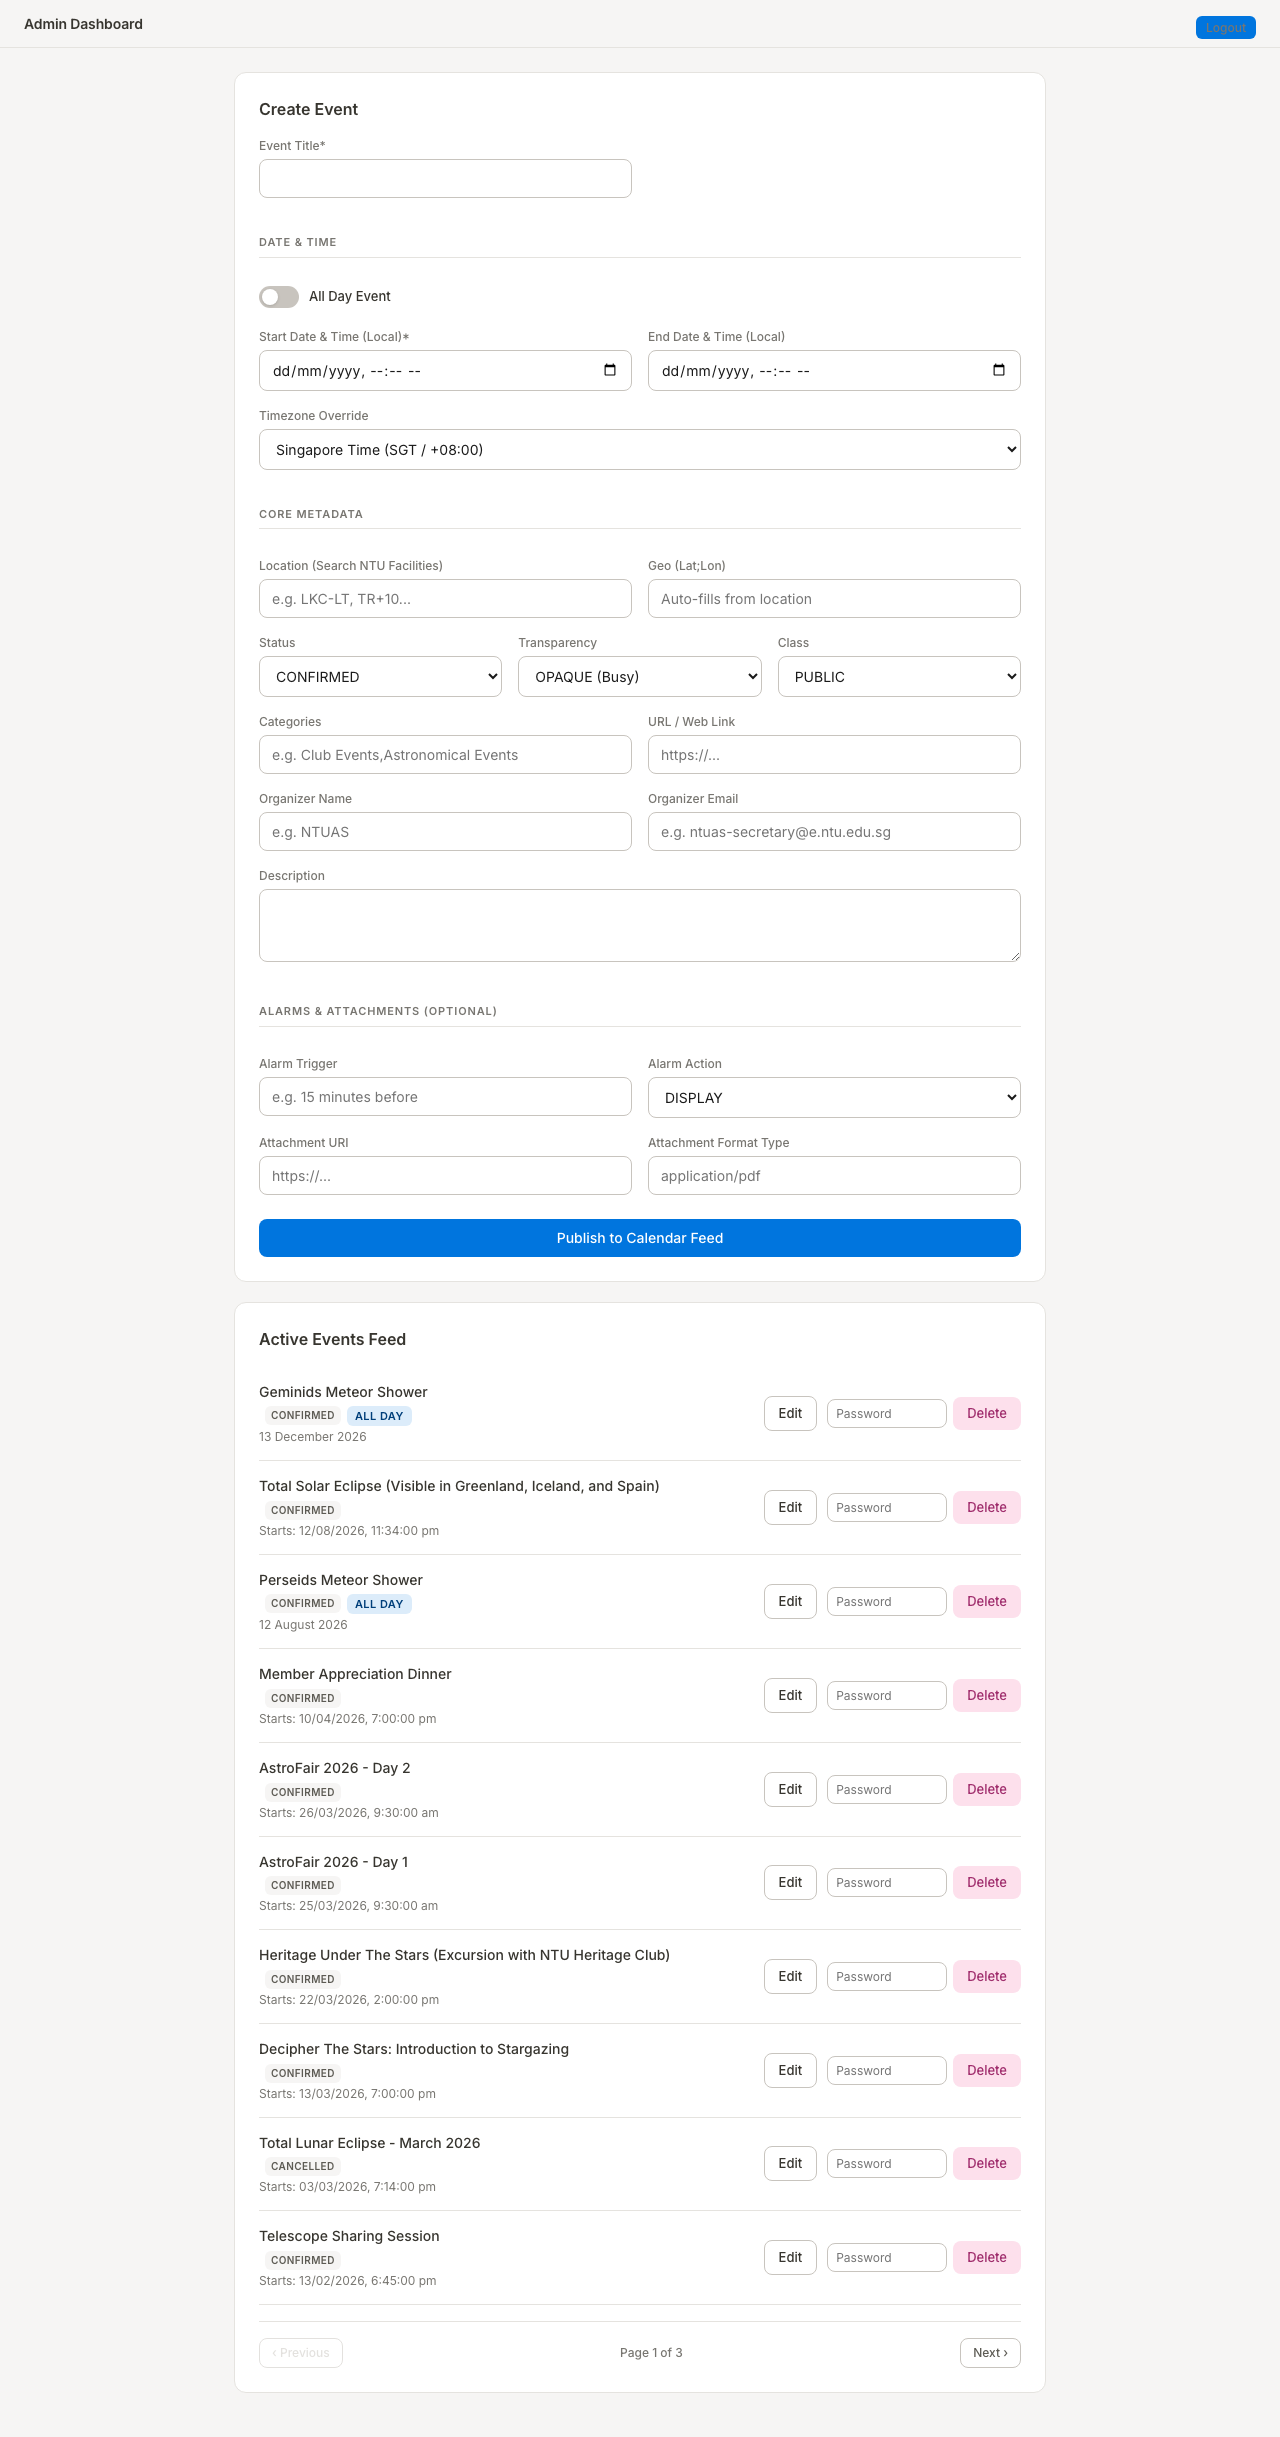
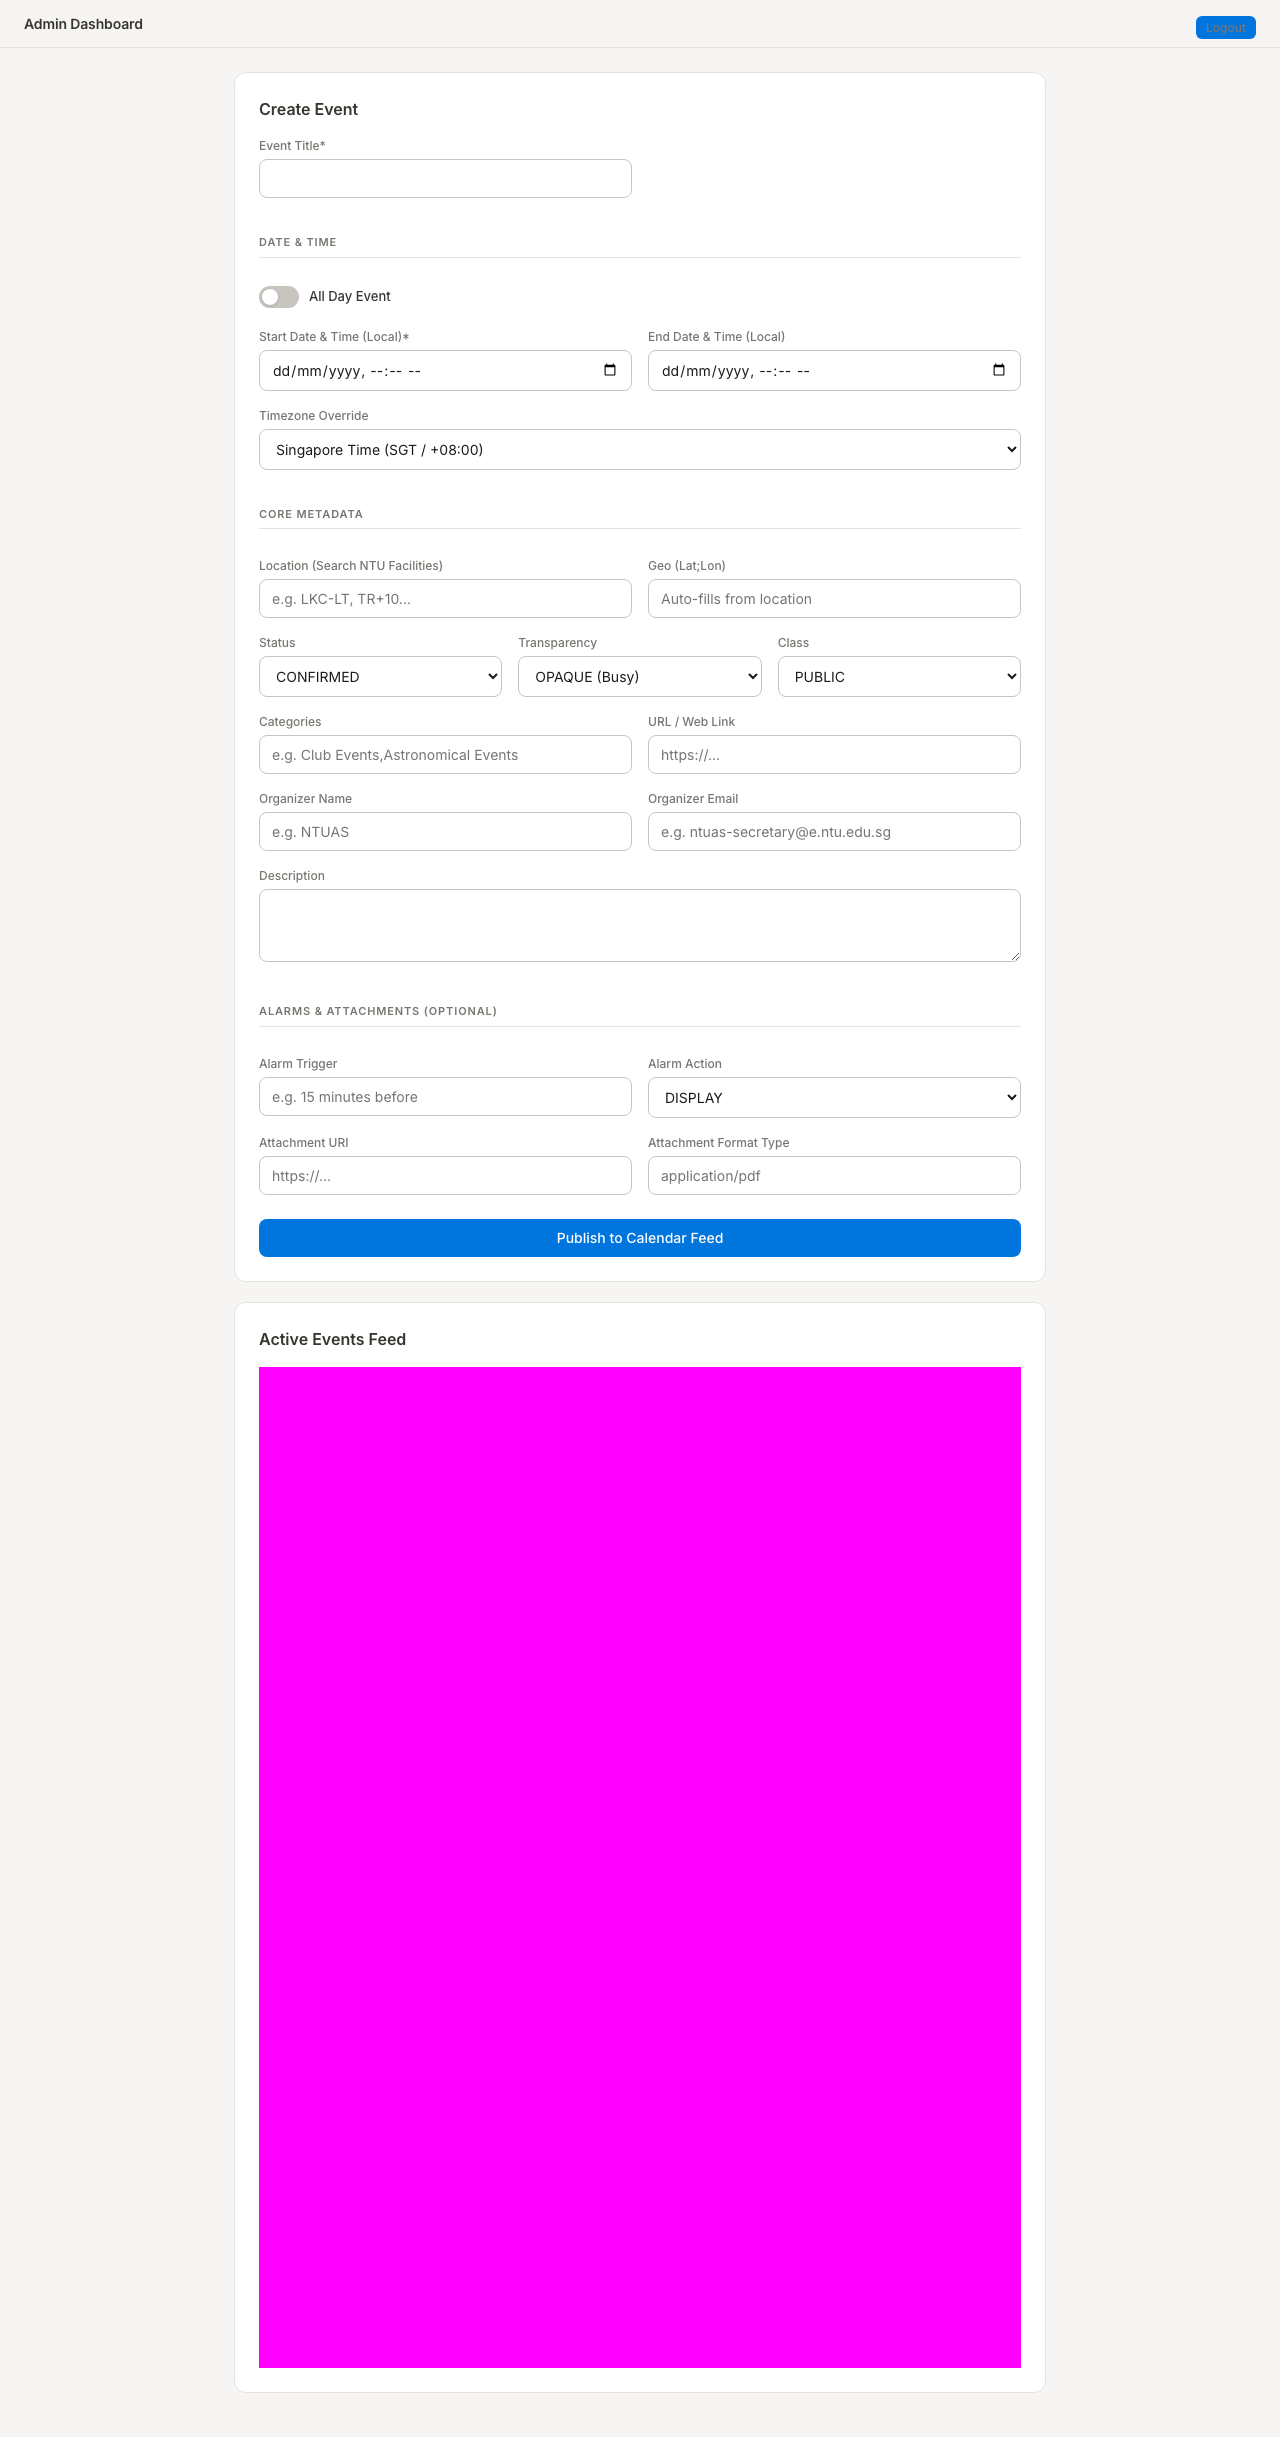
test: mask events container to prevent dynamic database events from failing visual regression

Changed region(s): [[0.1875, 0.5613, 0.8125, 0.9979]]

diff --git a/e2e/screenshot.spec.ts b/e2e/screenshot.spec.ts
@@ -27,7 +27,7 @@ test.describe('Visual regression — UI must not drift', () => {
     await page.evaluate(() => document.fonts.ready);
     await expect(page).toHaveScreenshot('admin.png', {
       fullPage: true,
-      mask: [page.locator('meta[name="csrf-token"]')],
+      mask: [page.locator('#events-container')],
     });
   });
 });